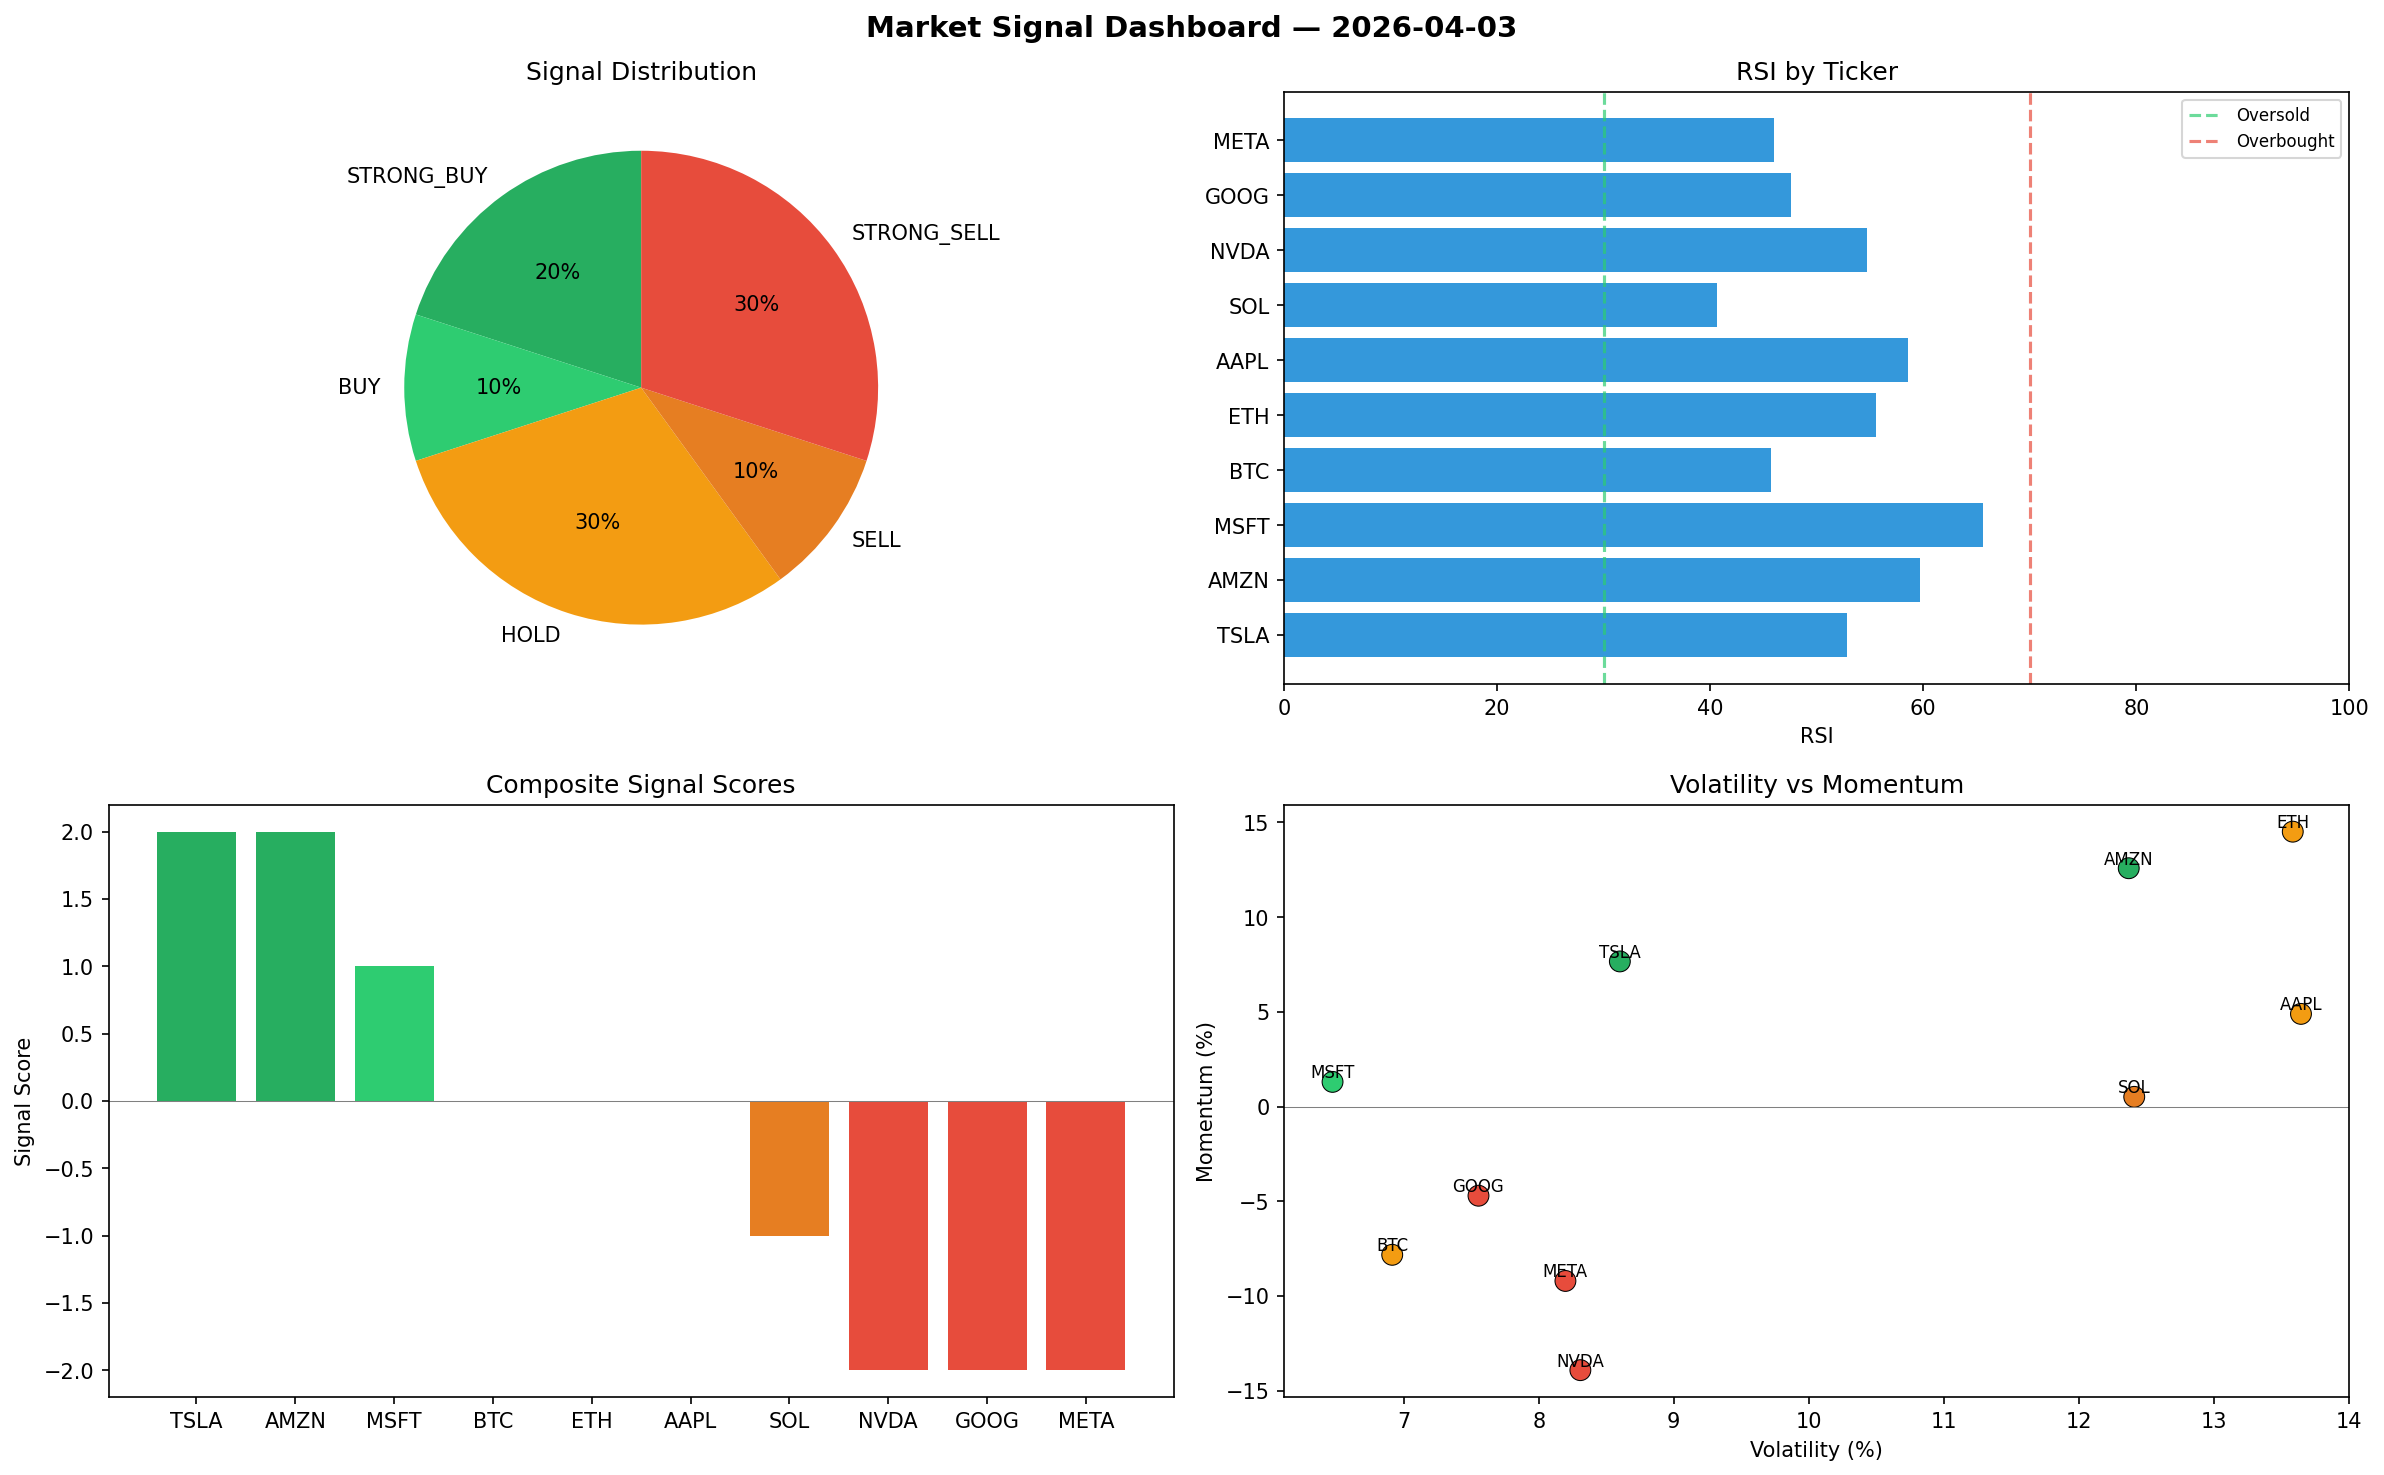
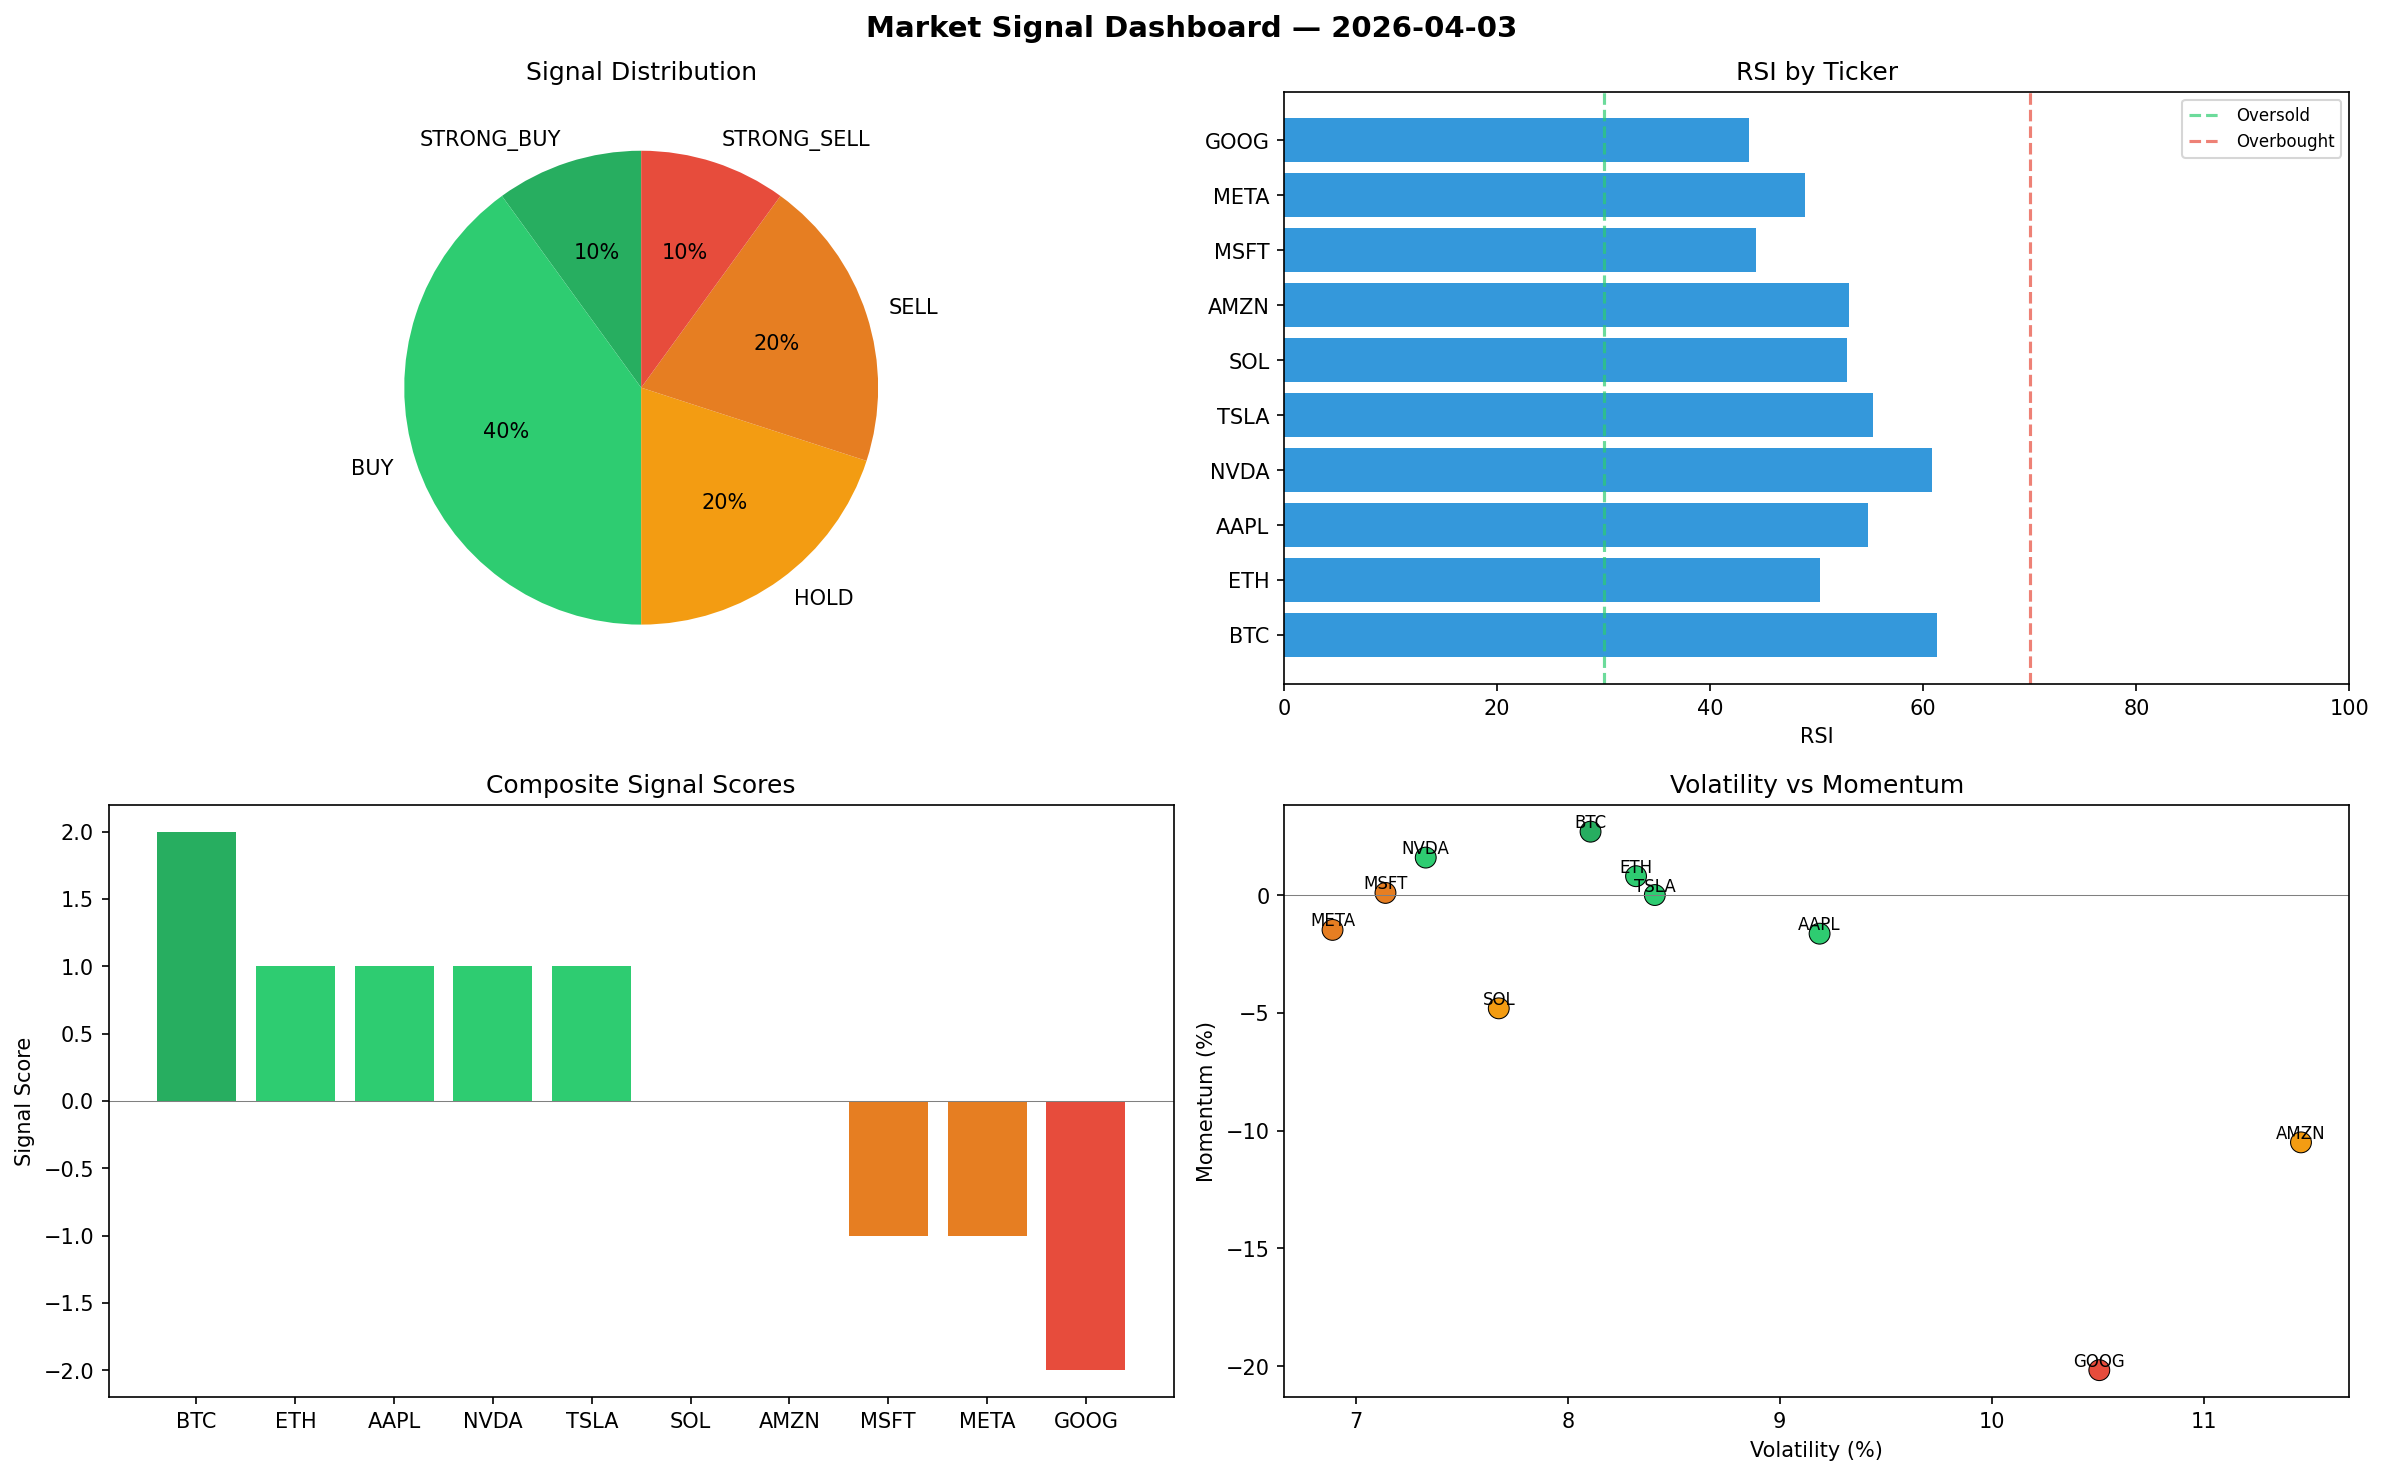
automated-bots: market signals 2026-04-03T15:09

diff --git a/logs/2026-04-03.md b/logs/2026-04-03.md
@@ -1,6 +1,6 @@
 # Market Signal Report — 2026-04-03
 
-**Run ID:** `1ff7469254` | **Buy:** 3 | **Sell:** 4 | **Hold:** 3
+**Run ID:** `7b050ea416` | **Buy:** 5 | **Sell:** 3 | **Hold:** 2
 
 ![Dashboard](2026-04-03_dashboard.png)
 
@@ -8,28 +8,28 @@
 
 | Ticker | Price | Signal | Score | RSI | Momentum | Confidence |
 |--------|-------|--------|-------|-----|----------|------------|
-| TSLA | $4806.67 | **STRONG_BUY** | 2 | 52.81 | 0.0766 | 0.5 |
-| AMZN | $3884.17 | **STRONG_BUY** | 2 | 59.65 | 0.1258 | 0.5 |
-| MSFT | $5051.86 | **BUY** | 1 | 65.62 | 0.013 | 0.25 |
-| BTC | $12.94 | **HOLD** | 0 | 45.73 | -0.0783 | 0.0 |
-| ETH | $407.49 | **HOLD** | 0 | 55.55 | 0.1451 | 0.0 |
-| AAPL | $1220.84 | **HOLD** | 0 | 58.6 | 0.0489 | 0.0 |
-| SOL | $4391.44 | **SELL** | -1 | 40.62 | 0.0051 | 0.25 |
-| NVDA | $324.44 | **STRONG_SELL** | -2 | 54.71 | -0.1392 | 0.5 |
-| GOOG | $3501.2 | **STRONG_SELL** | -2 | 47.61 | -0.0471 | 0.5 |
-| META | $4571.4 | **STRONG_SELL** | -2 | 46.01 | -0.0921 | 0.5 |
+| BTC | $3848.3 | **STRONG_BUY** | 2 | 61.3 | 0.0269 | 0.5 |
+| ETH | $1115.32 | **BUY** | 1 | 50.32 | 0.008 | 0.25 |
+| AAPL | $1969.16 | **BUY** | 1 | 54.8 | -0.0164 | 0.25 |
+| NVDA | $5180.76 | **BUY** | 1 | 60.78 | 0.0159 | 0.25 |
+| TSLA | $3972.67 | **BUY** | 1 | 55.25 | 0.0 | 0.25 |
+| SOL | $4598.78 | **HOLD** | 0 | 52.88 | -0.0481 | 0.0 |
+| AMZN | $2518.8 | **HOLD** | 0 | 53.03 | -0.105 | 0.0 |
+| MSFT | $2150.8 | **SELL** | -1 | 44.26 | 0.0009 | 0.25 |
+| META | $3415.34 | **SELL** | -1 | 48.89 | -0.0148 | 0.25 |
+| GOOG | $1894.81 | **STRONG_SELL** | -2 | 43.61 | -0.2017 | 0.5 |
 
 ## Delta vs Yesterday
 
 | Ticker | Today | Yesterday | Price Change | Signal Changed |
 |--------|-------|-----------|-------------|----------------|
-| TSLA | STRONG_BUY | STRONG_SELL | 📈 147.45% | ⚠ YES |
-| AMZN | STRONG_BUY | STRONG_SELL | 📈 409.47% | ⚠ YES |
-| MSFT | BUY | STRONG_BUY | 📈 36.85% | ⚠ YES |
-| BTC | HOLD | HOLD | 📉 -99.4% | — |
-| ETH | HOLD | STRONG_BUY | 📉 -38.59% | ⚠ YES |
-| AAPL | HOLD | STRONG_SELL | 📉 -33.35% | ⚠ YES |
-| SOL | SELL | STRONG_SELL | 📈 873.11% | ⚠ YES |
-| NVDA | STRONG_SELL | HOLD | 📉 -89.84% | ⚠ YES |
-| GOOG | STRONG_SELL | STRONG_SELL | 📉 -23.69% | — |
-| META | STRONG_SELL | STRONG_SELL | 📈 66.95% | — |
+| BTC | STRONG_BUY | HOLD | 📈 78.11% | ⚠ YES |
+| ETH | BUY | STRONG_BUY | 📈 68.09% | ⚠ YES |
+| AAPL | BUY | STRONG_SELL | 📈 7.5% | ⚠ YES |
+| NVDA | BUY | HOLD | 📈 62.19% | ⚠ YES |
+| TSLA | BUY | STRONG_SELL | 📈 104.51% | ⚠ YES |
+| SOL | HOLD | STRONG_SELL | 📈 919.05% | ⚠ YES |
+| AMZN | HOLD | STRONG_SELL | 📈 230.38% | ⚠ YES |
+| MSFT | SELL | STRONG_BUY | 📉 -41.74% | ⚠ YES |
+| META | SELL | STRONG_SELL | 📈 24.73% | ⚠ YES |
+| GOOG | STRONG_SELL | STRONG_SELL | 📉 -58.7% | — |
